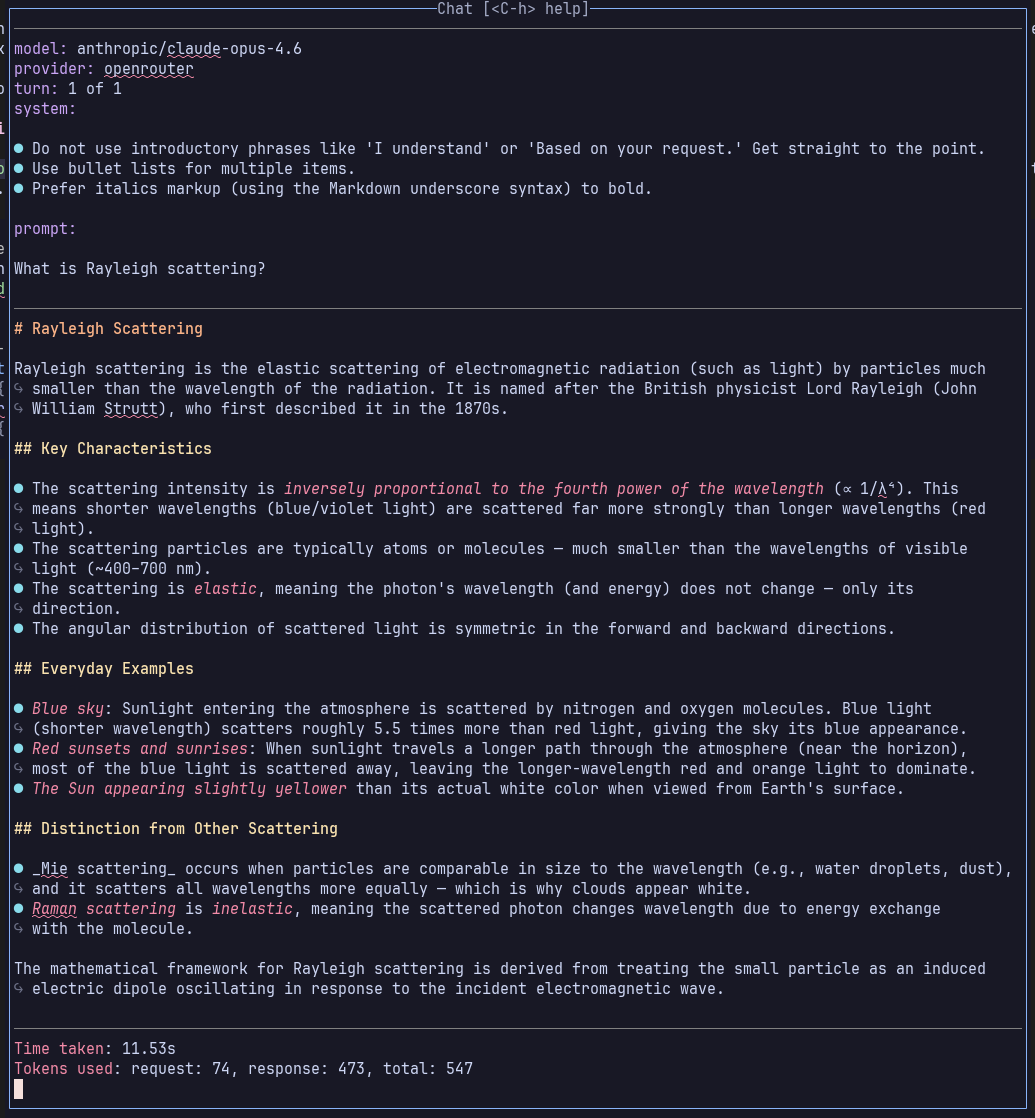
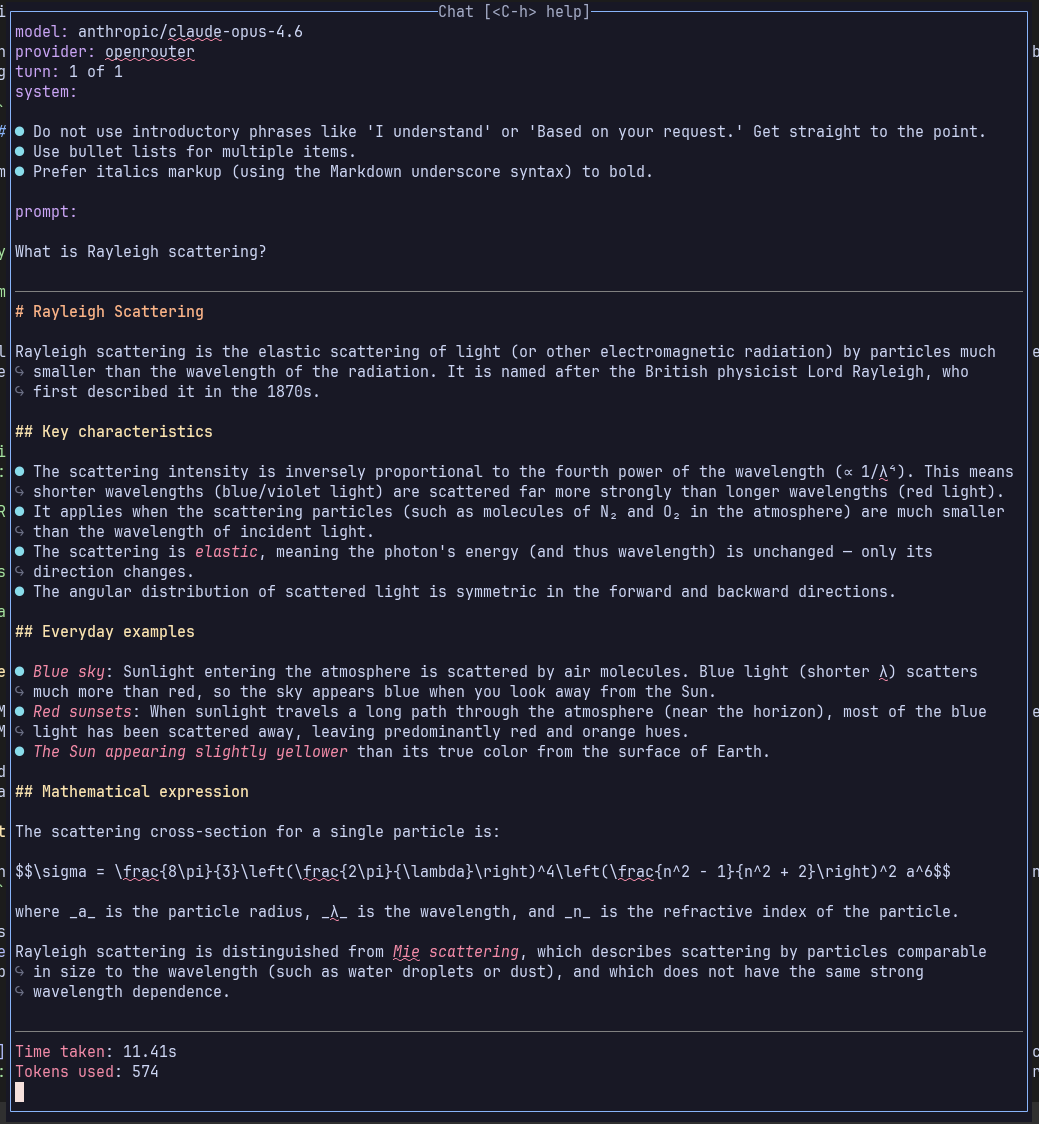
update README

diff --git a/README.md b/README.md
@@ -381,11 +381,27 @@ Qanda provides control and customisation of system messages with the _[system te
 
 ## Model options
 
-Model options from [prompt and system templates](#prompt-and-system-templates) headers are passed through to the model, they include the likes of `temperature`, `max_tokens` etc. Model options are often provider or model specific. Options are **merged** from:
+Model options are named parameters that are passed to the model in the request data sent to the mode. They include the likes of `temperature`, `max_tokens` etc. Model options are often provider or model specific.
 
-- Provider-specific [configuration](#configuration) `model_options` (lowest priority)
-- [System message](#system-messages) model options
-- User prompt model options (highest priority)
+A Qanda request merges model options from:
+
+- The provider specific `provider_options` [configuration](#configuration) option (**lowest precedence**). All options except `api_key` are passed through as AI model request options. Example:
+```lua
+provider_options = {
+  ollama = { think = true, stream = true },
+},
+```
+
+- The model specific `model_options` [configuration](#configuration) option. Model names are formatted like `<provider>/<model>`. Example:
+```lua
+model_options = {
+  ["ollama/minimax-m2.5:cloud"] = { think = true, temperature = 0.7 },
+},
+```
+
+- [System template](#prompt-and-system-templates) headers.
+- [Prompt template](#prompt-and-system-templates) headers.
+- [User prompt](#prompt-window) header (**highest precedence**).
 
 ## Tips
 